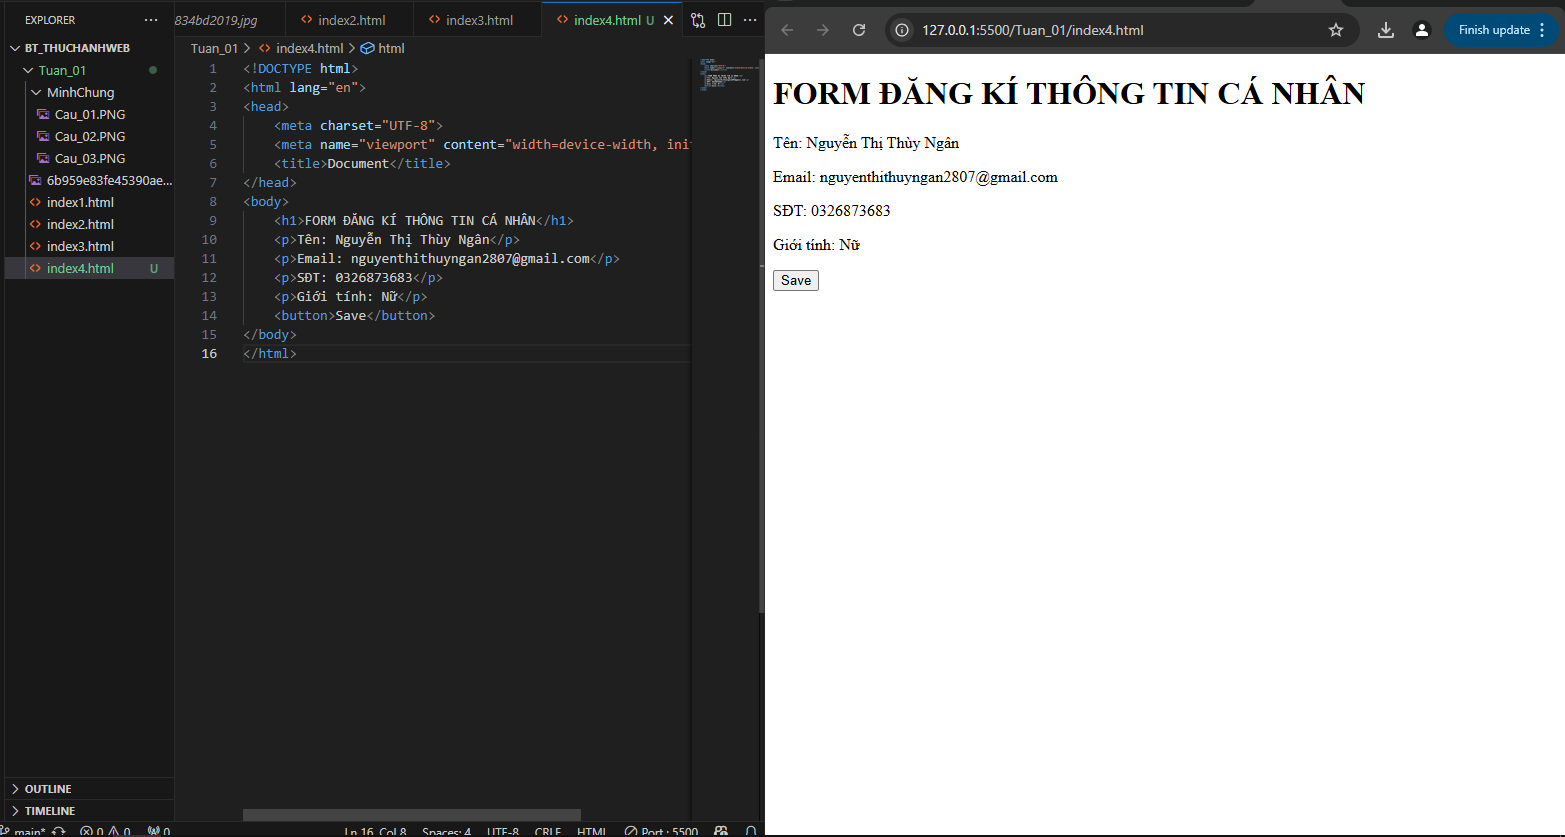
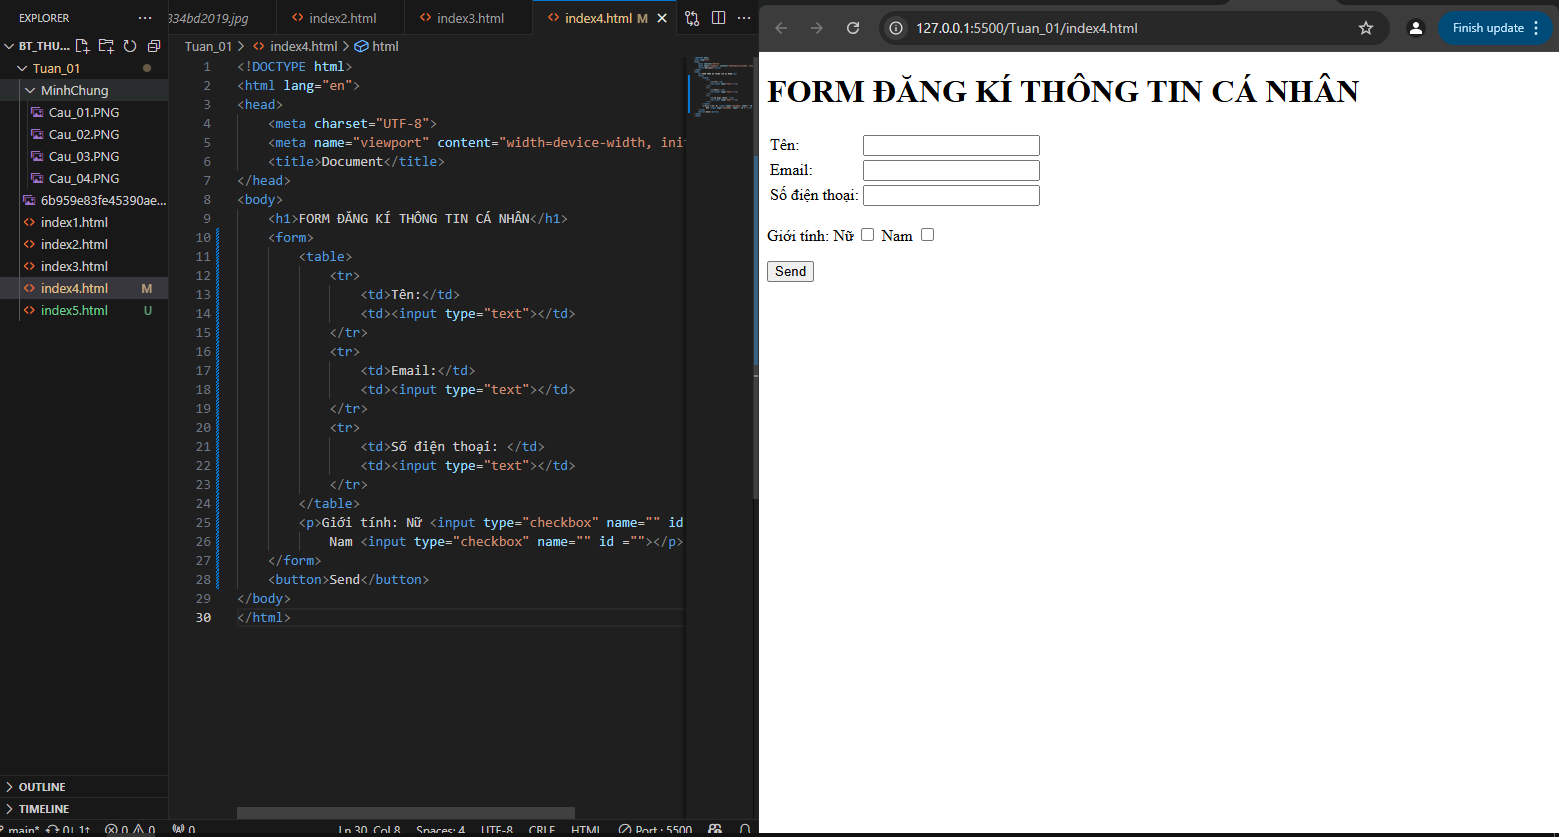
add folder Tuan_01 and file index4.html Cau_04

diff --git a/Tuan_01/index4.html b/Tuan_01/index4.html
@@ -7,10 +7,24 @@
 </head>
 <body>
     <h1>FORM ĐĂNG KÍ THÔNG TIN CÁ NHÂN</h1>
-    <p>Tên: Nguyễn Thị Thùy Ngân</p>
-    <p>Email: nguyenthithuyngan2807@gmail.com</p>
-    <p>SĐT: 0326873683</p>
-    <p>Giới tính: Nữ</p>
-    <button>Save</button>
+    <form>
+        <table>
+            <tr>
+                <td>Tên:</td>
+                <td><input type="text"></td>
+            </tr>
+            <tr>
+                <td>Email:</td>
+                <td><input type="text"></td>
+            </tr>
+            <tr>
+                <td>Số điện thoại: </td>
+                <td><input type="text"></td>
+            </tr>
+        </table>
+        <p>Giới tính: Nữ <input type="checkbox" name="" id ="">
+            Nam <input type="checkbox" name="" id =""></p>
+    </form>
+    <button>Send</button>
 </body>
 </html>
